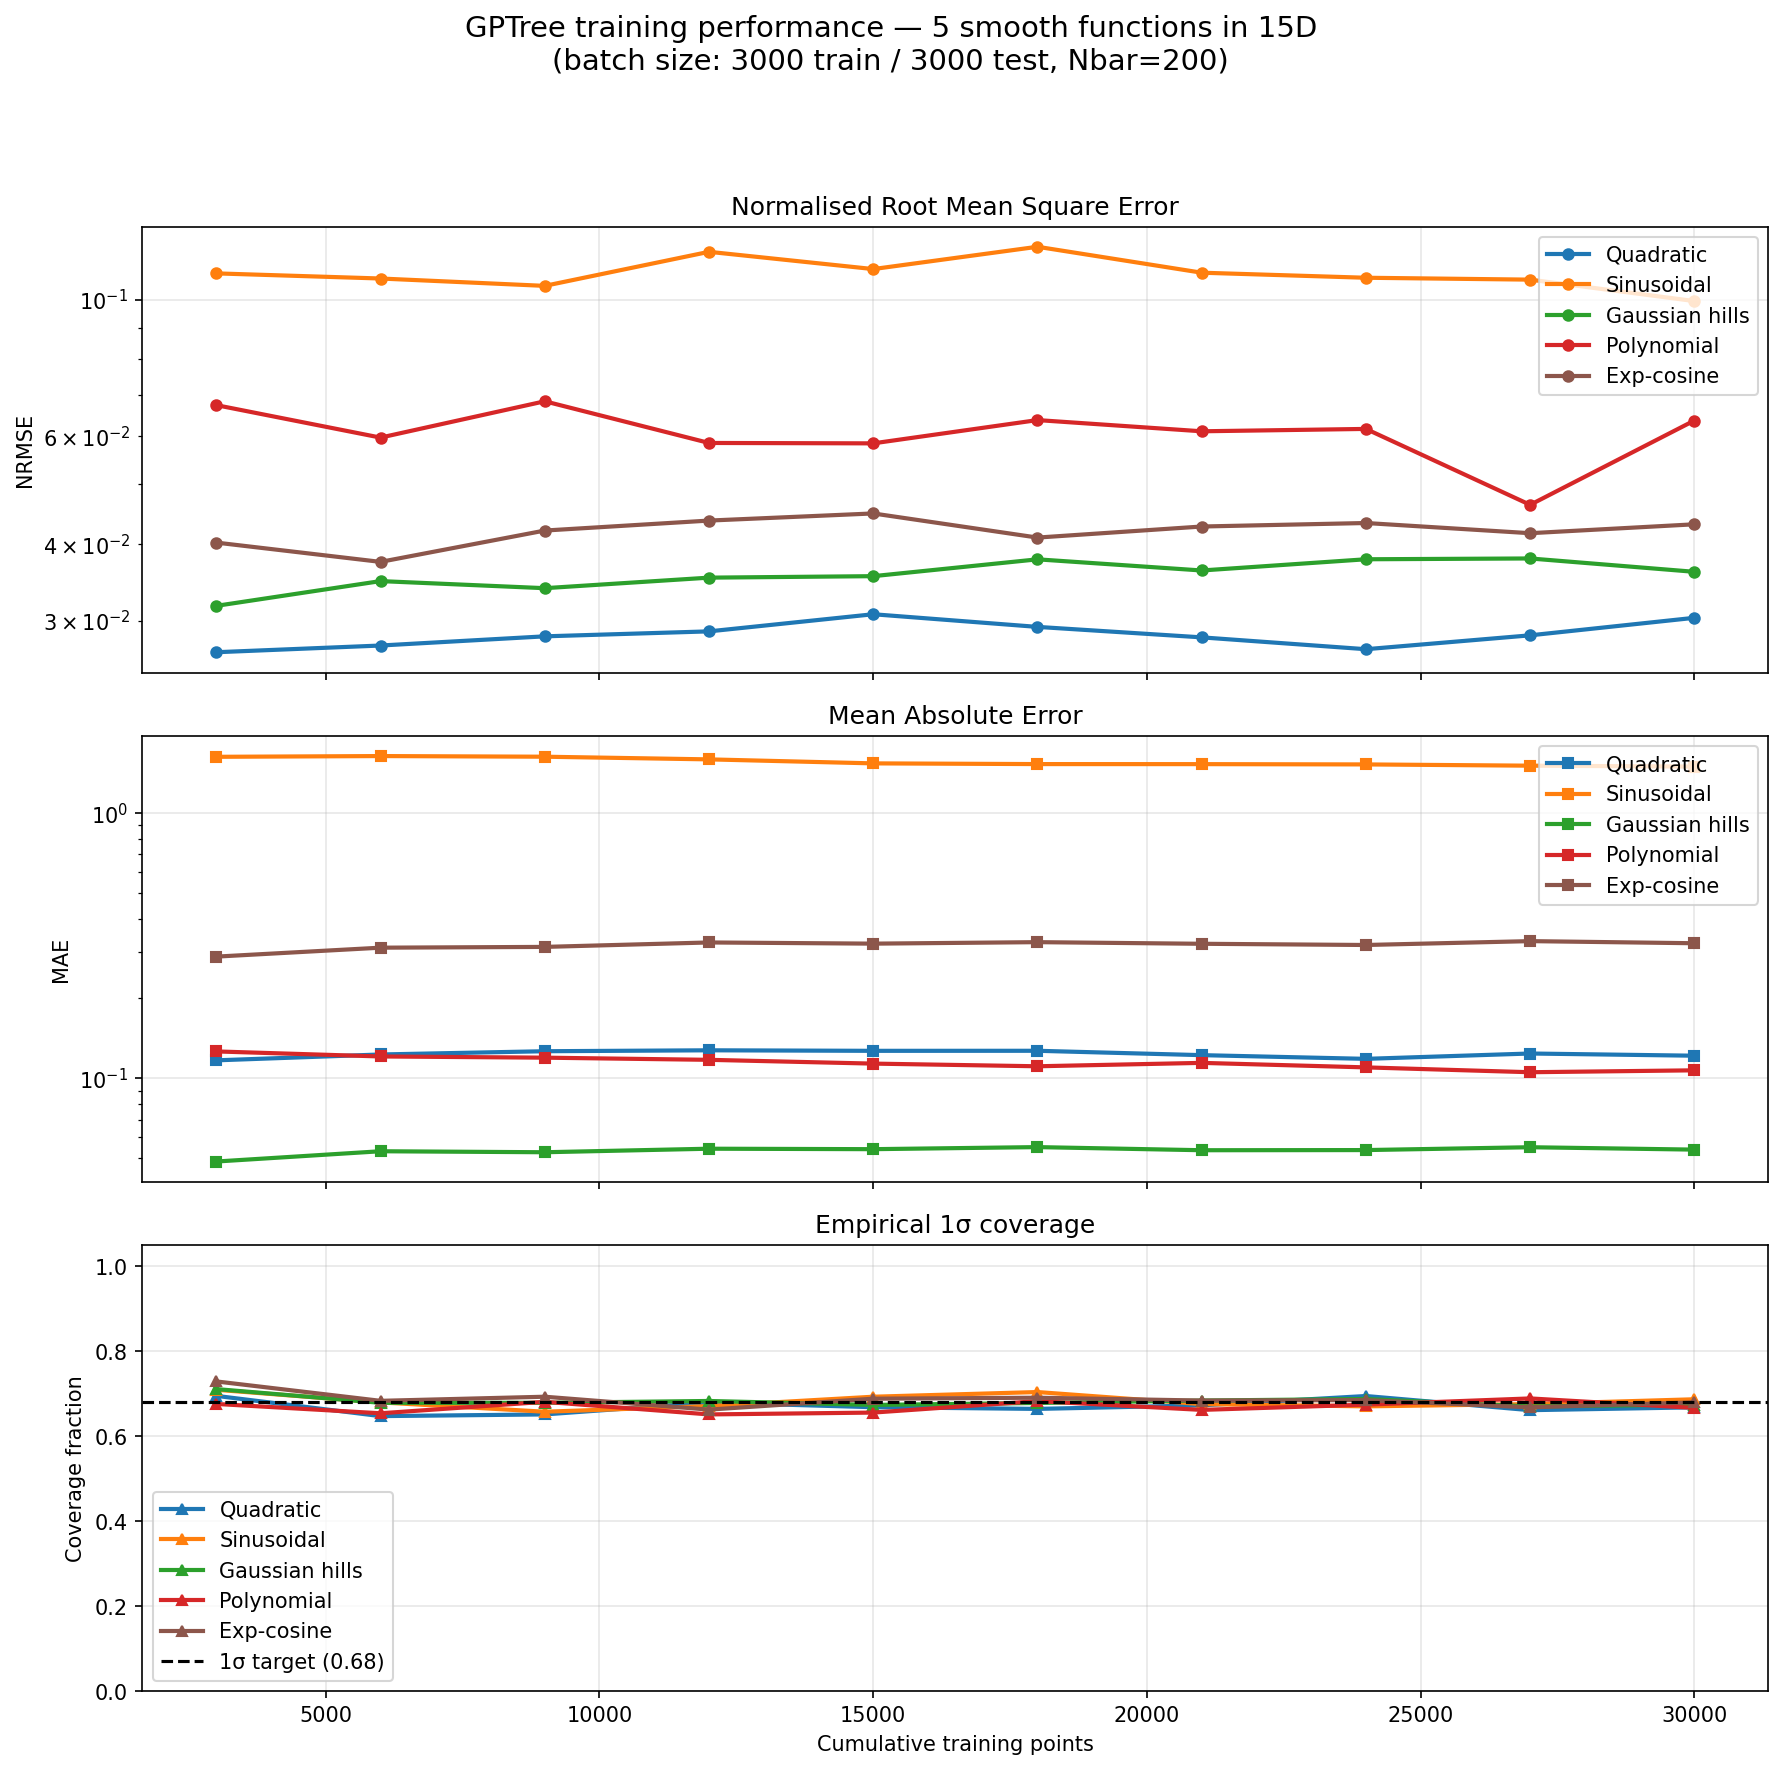
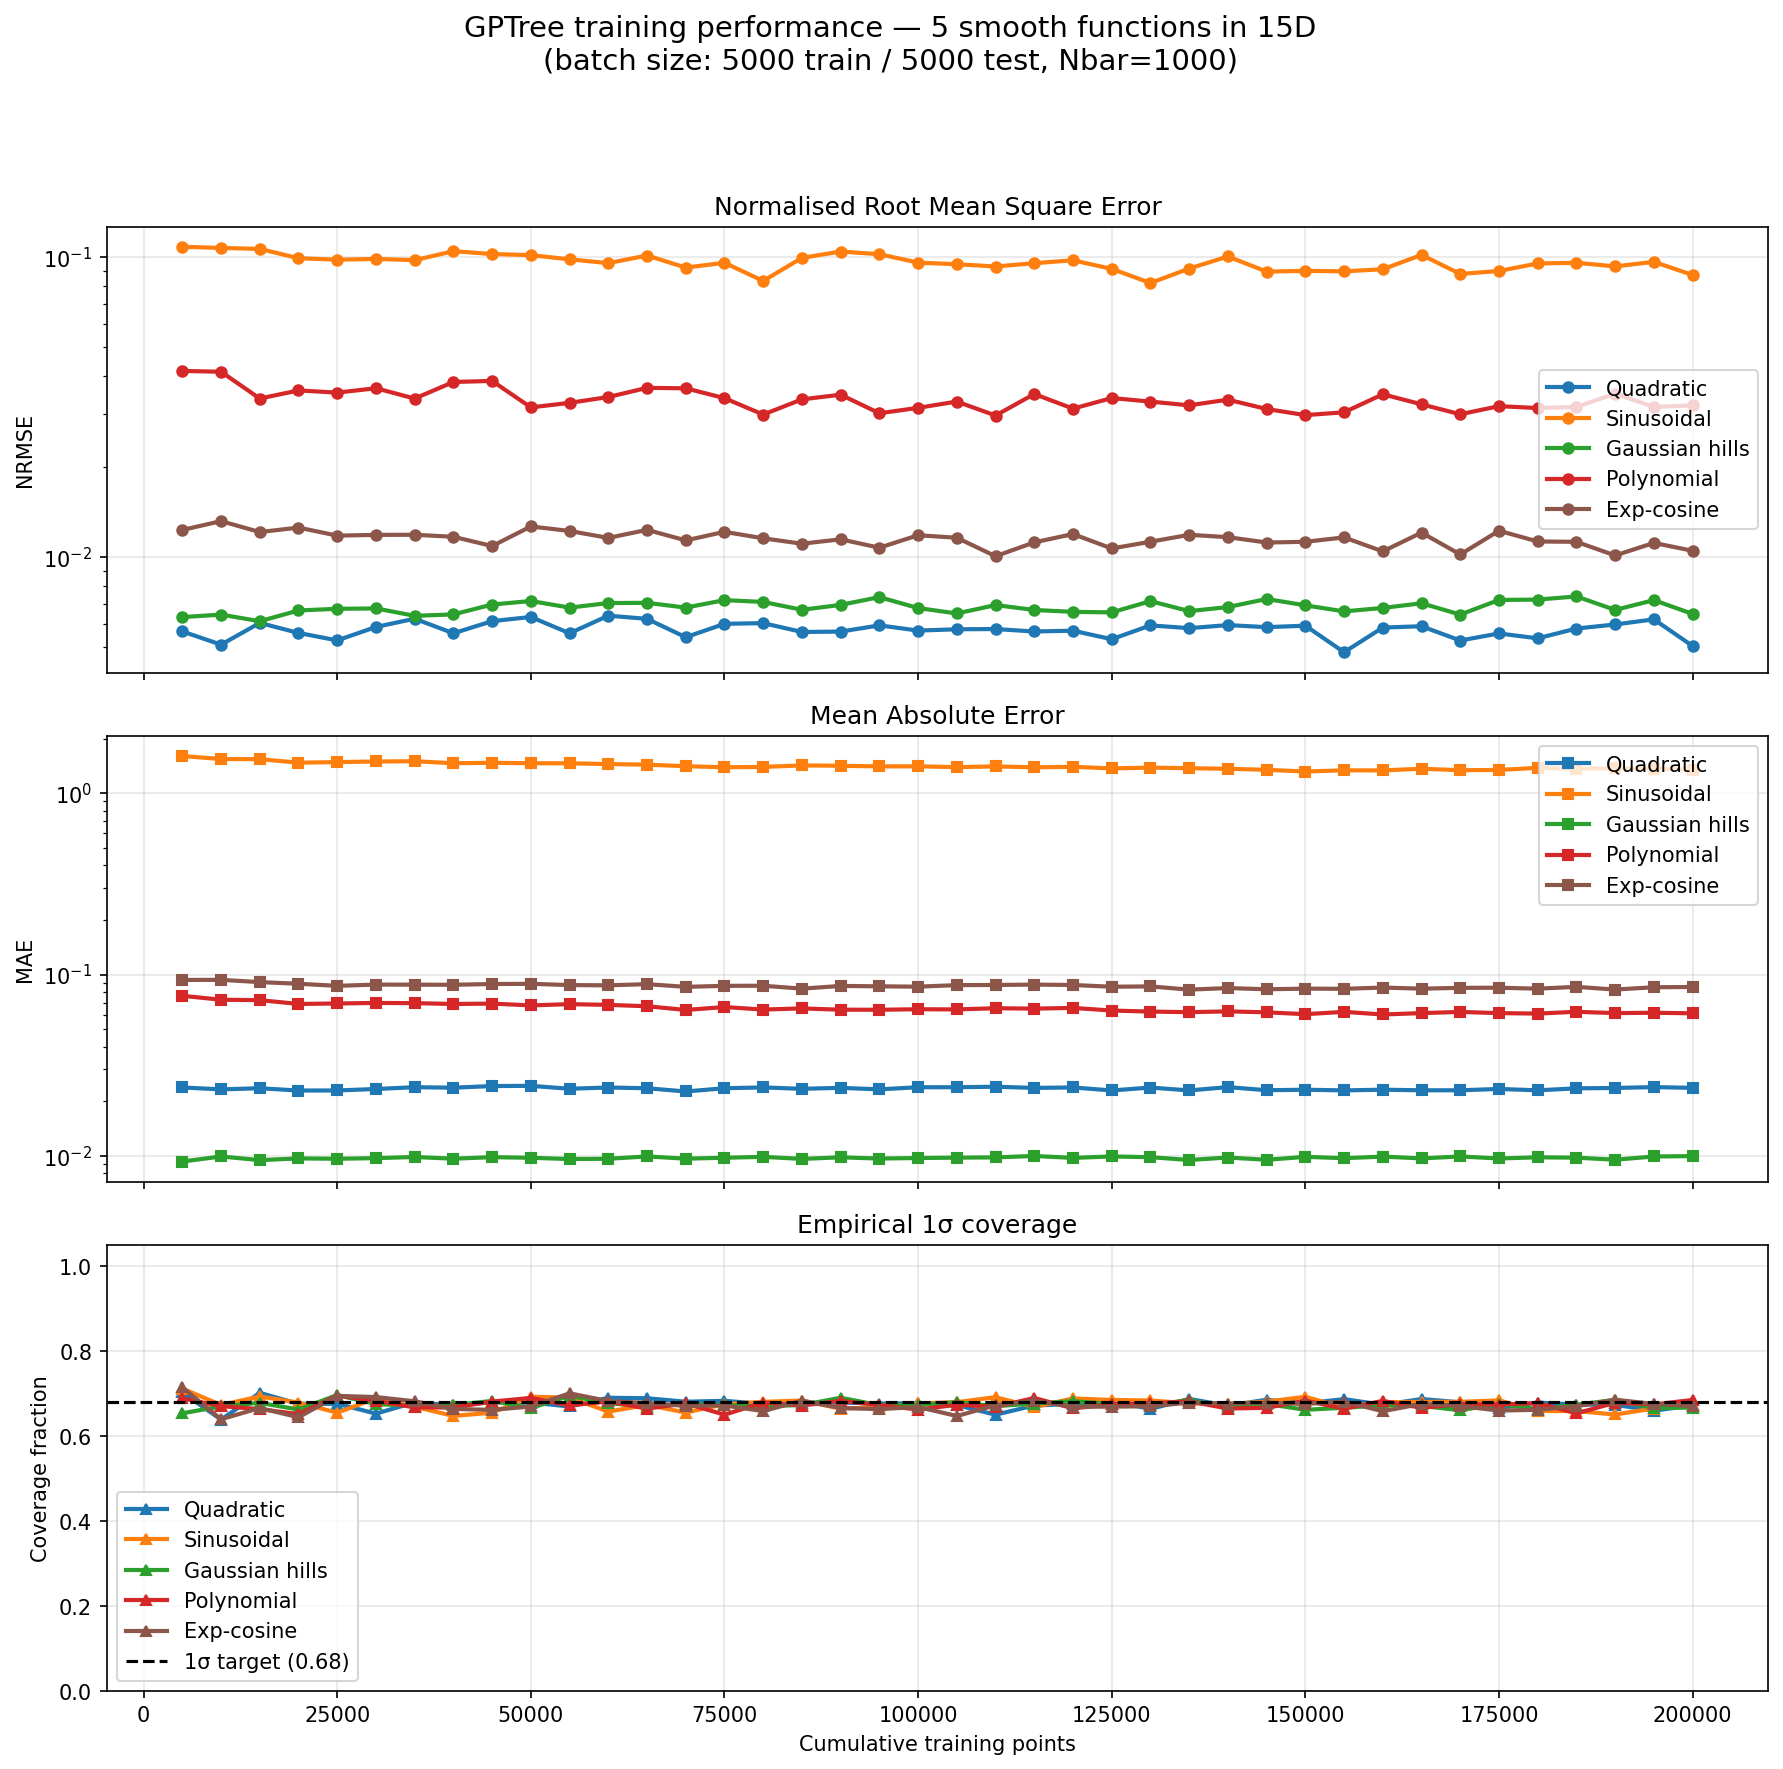
Rerun training test with Nbar=1000, 40 iterations, batch=5000
Updated settings: Nbar 200->1000, iterations 10->40, batch size
3000->5000 (200k total training points). Larger leaf nodes give
notably better accuracy for smooth functions (e.g. Quadratic NRMSE
~5e-3 vs ~3e-2, Gaussian hills ~6.5e-3 vs ~3.5e-2). Sinusoidal
remains the hardest at ~9e-2. Coverage tracks the 0.68 target well.

https://claude.ai/code/session_01VNEBGwpV7H8ThXSMbBCkKS

diff --git a/examples/training_test_5functions.py b/examples/training_test_5functions.py
@@ -22,16 +22,16 @@ from pygptreeo import GPTree, Default_GPR
 # ============================================================
 
 n_dims = 15
-n_iterations = 10
-batch_size_train = 3000
-batch_size_test = 3000
+n_iterations = 40
+batch_size_train = 5000
+batch_size_test = 5000
 
 x_min = 0.0
 x_max = 1.0
 
-Nbar = 200
+Nbar = 1000
 theta = 1e-4
-retrain_step = 200
+retrain_step = 1000
 
 np.random.seed(42)
 